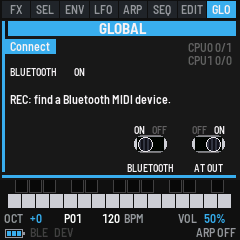
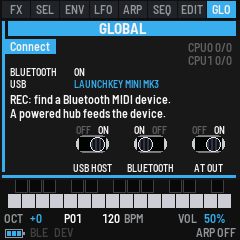
USB host: GLO CONNECT's USB HOST (K2) makes the port a MIDI host for a keyboard or synth
fm1.toml usb_host = true and APP_USB_HOST_NAME. The setting takes spare4's byte and is cleared at every start, so the
computer always finds the FM-1 after a restart. The host's news is spoken (USB HOST LOOKING/OFF, USB DEVICE and its
name, NO MIDI, LOW POWER, LOST); CONNECT shows the device by name. A lost session (plat_usb_lost) lets go of the
bass's held notes, the piano's notes and pedal, the bend, mod wheel and pressure. tests/usbhost.txt; manual section.

diff --git a/app.c b/app.c
@@ -45,7 +45,8 @@ typedef struct {
     uint8_t bvol_off;                    /* the bass's own volume (the MASTER page's Volume, K1), under full: 127 - it
                                           * (stored so: older records' spare 0, full) */
     uint8_t rvol_off;                    /* the RMI's own volume, as bvol_off (its faceplate's fader) */
-    uint8_t spare4[1];
+    uint8_t usb_host;                    /* USB HOST (GLO CONNECT): the port a MIDI host; never kept on (off at every start:
+                                          * set_load), so the computer always finds it after a power-off (was spare, 0) */
     uint8_t rmi_tabs;                    /* the RMI's tone tablets down, a bit each, RT_* (PIANO PANEL: SEL the
                                           * tablet, PRESET it on or off; older records: settings_defaults', PIANO) */
     uint8_t rmi_organ, rmi_accent;       /* its ORGAN MODE and ACCENTER tablets: 0 up, 1 down */
@@ -1025,10 +1026,27 @@ static void route_follow(void)               /* what the bass plays (its keys, a
 static int32_t bend_in;
 static uint32_t mw_in, at_midi;
 static volatile uint32_t at_keys;
+/* a USB host session ended (its device gone, the mode changed): what its notes held let go, the bass's (the keys'
+ * too: no note keeps its owner), the piano's and its pedal, and the wheels and pressure */
+static void usb_lost(void)
+{
+    uint8_t h[NHELD];
+    uint32_t i, n = eng.nheld;
+    memcpy(h, eng.held, n);                  /* (a copy: with LATCH a note-off keeps it) */
+    for (i = 0; i < n; i++)
+        note_in(h[i], 0);
+    for (i = 0; i < 128u; i++)
+        rmi_play(i, 0);
+    rmi_cc(64, 0);
+    bend_in = 0;
+    mw_in = at_midi = 0;
+}
 static void midi_in(void)                    /* audio interrupt: the keys' notes, and the packets that came in */
 {
     uint32_t pkt, e;
     int port;
+    if (plat_usb_lost())
+        usb_lost();
     while (fifo_get(&keyq, &e))
         if (e & KEYQ_RMI)
             rmi_play(e & 0xFFu, (e >> 8) & 0xFFu);
@@ -1918,6 +1936,7 @@ void app_init(void)
         for (i = (uint32_t)n < SET_V3_SIZE && (uint32_t)n > SET_V2_SIZE ? SET_V2_SIZE : (uint32_t)n; i < sizeof set; i++)
             ((uint8_t *)&set)[i] = ((const uint8_t *)&d)[i];
     set_sane();
+    set.usb_host = 0;                        /* (a device at every start: the computer's) */
     tol_init();
     set_kept = set;
     bank_load();
@@ -2291,7 +2310,8 @@ static const param_t PARAMS[NPAGES][NE] = {
                   [EN_K1] = {"BASS", SF(chan), CH_OFF, CH_ALL, CHAN_NAME},
                   [EN_K2] = {"DRUMS", SF(dchan), CH_OFF, CH_ALL, CHAN_NAME},
                   [EN_K3] = {"PIANO", SF(rmi_chan), CH_OFF, CH_ALL, CHAN_NAME}},
-    [PG_GCONN] = {[EN_K2] = {"BLE", SF(ble_off), 0, 1, ON_OFF}, [EN_K3] = {"AT OUT", SF(at_out), 0, 1, OFF_ON}},   /* (K1: the USB host) */
+    [PG_GCONN] = {[EN_K1] = {"USB HOST", SF(usb_host), 0, 1, OFF_ON}, [EN_K2] = {"BLE", SF(ble_off), 0, 1, ON_OFF},
+                  [EN_K3] = {"AT OUT", SF(at_out), 0, 1, OFF_ON}},
     /* the global settings by what they are about: the clock (the tempo on the display), the sound coming out, how the
      * controls answer; the settings on K3 and K4 (ENC_MAP) */
     [PG_GCLK] = {[EN_K3] = {"SEND CLK", SF(clk_out), 0, 1, OFF_ON}, [EN_K4] = {"SYNC", SF(clock), 0, NCLK - 1, CLK_NAME}},   /* (K1, the tempo: the patch's, knob_param) */
@@ -2400,7 +2420,7 @@ static const char *const TITLE[NPAGES][NE] = {
 
     [PG_GMIDI] = {[EN_SELECT] = "BASS CC CHANNEL", [EN_ALGO] = "DRUMS CC CHANNEL", [EN_PRESET] = "PIANO CC CHANNEL",
                   [EN_K1] = "BASS CHANNEL", [EN_K2] = "DRUMS CHANNEL", [EN_K3] = "PIANO CHANNEL"},
-    [PG_GCONN] = {[EN_K2] = "BLUETOOTH MIDI", [EN_K3] = "AFTER TOUCH OUT"},
+    [PG_GCONN] = {[EN_K1] = "USB MIDI HOST", [EN_K2] = "BLUETOOTH MIDI", [EN_K3] = "AFTER TOUCH OUT"},
     [PG_GCLK] = {[EN_K3] = "SEND MIDI CLOCK", [EN_K4] = "CLOCK SYNC"},
     [PG_GCTL] = {[EN_K2] = "KNOB RESPONSE", [EN_K3] = "LOCAL CONTROL", [EN_K4] = "NOTE ROUTE"},
     [PG_GDISP] = {[EN_PRESET] = "KNOB ZOOM", [EN_K1] = "HINTS", [EN_K2] = "POP-UP TIME"},
@@ -3195,6 +3215,8 @@ static int knob_turn(uint32_t k, int32_t e)
         seq_changed();
     if (ui.page == PG_GCONN && k == EN_K2)   /* Bluetooth: at once */
         plat_ble_enable(!set.ble_off);
+    if (ui.page == PG_GCONN && k == EN_K1)   /* the USB host: at once (the computer gone meanwhile) */
+        plat_usb_host(set.usb_host);
     return 1;
 }
 static const char *knob_name(uint32_t k)
@@ -3924,7 +3946,7 @@ static const char *const HINT[NPAGES][NE] = {
                    "Mod wheel: LFO 2 to cutoff", "Mod wheel to osc 2 pitch"},
     [PG_GMIDI] = {"Bass CC channel", "Drums' CC channel", "Piano's CC channel", "Bass note channel",
                   "Drums' note channel", "Piano's note channel"},
-    [PG_GCONN] = {[EN_K2] = "Bluetooth MIDI", "Pressure out as MIDI"},
+    [PG_GCONN] = {[EN_K1] = "A USB MIDI device, no computer", "Bluetooth MIDI", "Pressure out as MIDI"},
     [PG_GCLK] = {[EN_K1] = "Speed, BPM", [EN_K3] = "Send MIDI clock", "Clock to follow"},
     [PG_GAUD] = {[EN_K1] = "The speaker's sound, or off", "Master tune"},
     [PG_GCTL] = {[EN_K1] = "Touch curve", "Knob speed-up", "Keys play the synth", "Notes piano to bass, or back"},
@@ -6894,15 +6916,23 @@ static void glo_chan_draw(void)
         print_knob(x, GLO_ROW, 14, n, EN_K1 + i, 1, CHAN_NAME[param_get(n, &set)], 0);
     }
 }
-/* GLOBAL CONNECT: what the FM-1 is joined to and what goes out to it: Bluetooth (K2, on K3; REC: a device to join) and
- * AT Out (K3, on K4), with how each stands */
+/* GLOBAL CONNECT: what the FM-1 is joined to and what goes out to it: the USB host (K1, on K2: a USB MIDI device on the
+ * port instead of a computer), Bluetooth (K2, on K3; REC: a device to join) and AT Out (K3, on K4), with how each
+ * stands */
 static void glo_conn_draw(void)
 {
+    const int uh = plat_usb_host_state();
+    const char *nm = plat_usb_host_name();
     glo_frame("Connect");
+    info(10, 64, 58, "USB", uh == USBH_CONNECTED ? (*nm ? nm : "Device") : uh == USBH_LOOKING ? "Looking" : "Computer",
+         uh == USBH_CONNECTED ? P_CYAN : P_SILK);
+    if (set.usb_host)
+        cv_text(10, 86, &FONT_XS, "A powered hub feeds the device.", P_SILK);
     info(10, 64, 46, "Bluetooth", set.ble_off ? "Off" : plat_ble_connected() ? "Connected" : "On",
          !set.ble_off && plat_ble_connected() ? P_CYAN : P_SILK);
     if (FM1B_BLE_CENTRAL && !set.ble_off)
         cv_text(10, 72, &FONT_XS, "REC: find a Bluetooth MIDI device.", P_SILK);
+    print_switch(92, GLO_ROW, EN_K1, "Off", "On", "USB Host");
     print_switch(150, GLO_ROW, EN_K2, "On", "Off", "Bluetooth");
     print_switch(208, GLO_ROW, EN_K3, "Off", "On", "AT Out");
 }
@@ -9279,6 +9309,16 @@ void app_frame(void)
         lit_until = 0;
         ui.redraw = 1;
     }
+    if (FM1B_USB_HOST) {                     /* the USB host's news, said (one at a time: the latest) */
+        static const char *const UH_WORD[] = {"", "LOOKING", "OFF", "", "NO MIDI", "LOW POWER", "LOST"};
+        int m = plat_usb_host_msg();
+        if (m == USBH_MSG_MIDI)
+            app_say("USB DEVICE", *plat_usb_host_name() ? plat_usb_host_name() : "CONNECTED");
+        else if (m > USBH_MSG_NONE && m < (int)(sizeof UH_WORD / sizeof *UH_WORD))
+            app_say(m == USBH_MSG_ON || m == USBH_MSG_OFF ? "USB HOST" : "USB DEVICE", UH_WORD[m]);
+        if (m != USBH_MSG_NONE)
+            ui.redraw = 1;
+    }
     if (FM1B_BLE_CENTRAL) {                  /* looking: a device found is named at once (REC connects to it) */
         static int found;
         int n = ui.looking ? btdev_count() : 0, ev;
@@ -9717,6 +9757,8 @@ int app_expect(const char *what, int *got)
         *got = set.knobs;
     else if (!strcmp(what, "ble_off"))
         *got = set.ble_off;
+    else if (!strcmp(what, "usb_host"))
+        *got = set.usb_host;
     else if (!strcmp(what, "afx"))
         *got = afx_on;
     else if (!strcmp(what, "ext_bpm"))       /* MIDI clock's tempo as GLO CLOCK shows it (0: not measured) */

diff --git a/app.h b/app.h
@@ -17,6 +17,7 @@ void app_boot(void);
 #define APP_BLOCK 256u                   /* frames per audio block: 5.8 ms at 44.1 kHz */
 #define APP_TOUCH                        /* velocity and pressure from the keys (lib/touch.h) */
 #define APP_BTDEV                        /* Bluetooth MIDI devices (lib/btdev.h) */
+#define APP_USB_HOST_NAME                /* the USB host's device by its name (GLO CONNECT) */
 #define APP_BLE_AT_BOOT (!bs2_ble_off())   /* Bluetooth at power-on: as the player left it (GLO MIDI) */
 int bs2_ble_off(void);
 

diff --git a/docs/MANUAL.md b/docs/MANUAL.md
@@ -1119,7 +1119,7 @@ from something else. A write to memory (SAVE, a patch change, and the sequence a
 up the sound for a moment. In silence nothing is heard and it isn't counted; while something is sounding, it counts.
 
 ![GLO CHANNELS: Bass, Drums and Piano columns, each a CC channel knob over a note channel knob](img/screen-glo-channels.png "GLO: CHANNELS")
-![GLO CONNECT: how Bluetooth stands, then the Bluetooth and AT Out switches](img/screen-glo-connect.png "GLO, again: CONNECT")
+![GLO CONNECT: how Bluetooth and USB stand (a keyboard connected), then the USB Host, Bluetooth and AT Out switches](img/screen-glo-connect.png "GLO, again: CONNECT")
 ![GLO CLOCK: the tempo 120 on the display and what the clock is doing, then the Tempo knob, the Send Clk switch and the Sync knob](img/screen-glo-clock.png "GLO, again: CLOCK")
 ![GLO KEYS: what each does, then the Velocity and Knobs knobs, the Local switch and the Route knob](img/screen-glo-keys.png "GLO, again: KEYS")
 ![GLO AUDIO: what the speaker's setting reaches, then the Speaker switch and the Tune knob](img/screen-glo-audio.png "GLO, again: AUDIO")
@@ -1239,6 +1239,17 @@ To connect to a Bluetooth MIDI device, such as a keyboard or a controller, put t
 advertising mode, then press GLO twice for GLOBAL CONNECT and press REC: the screen says BLE SCANNING. Turn ALGO to
 pick the device by its name, and press REC again to connect. DEV at the bottom lights while it's connected, and the
 bottom line shows the last message it sent. Press REC once more (on GLOBAL CONNECT) to disconnect.
+
+### A USB MIDI keyboard (USB host)
+
+The FM-1's USB port can play host to a USB MIDI keyboard, controller or synth instead of a computer. Press GLO twice for
+GLOBAL CONNECT and turn K2 (USB HOST) to ON: the screen says USB HOST LOOKING. Plug the device in, through a powered USB
+hub or a powered OTG adapter (the FM-1 gives the port no power), and the screen names it (USB DEVICE and its name);
+GLOBAL CONNECT shows it beside USB. Its notes, wheels and CCs come in as a computer's would, on the channels of GLOBAL
+CHANNELS, and the FM-1's keys and sequences go out to it. Unplugged, any note it was holding stops (USB DEVICE LOST).
+
+While USB HOST is on there is no computer: no USB audio, no MIDI to a computer, no backup and no updates. Turn it OFF
+to give the port back to the computer. It is always OFF at power-on, so the computer finds the FM-1 after any restart.
 
 ### USB audio
 

diff --git a/docs/SIZE_LOG.md b/docs/SIZE_LOG.md
@@ -210,3 +210,4 @@ What each change costs on the FM-1, from the device build (`tools/build.py bs2`)
 | 2026-11-09 | 7f85f02+ | motion: arp octaves | 537,772 | +16 | 43,792 | 83,140 | +0 | 15,164 | 262,616 |
 | 2026-11-09 | 1e0d757+ | USB audio: 6 channels (master, bass, drums, piano, echo) | 538,604 | +832 | 42,960 | 87,620 | +4,480 | 10,684 | 263,640 |
 | 2026-11-09 | 085206a+ | GLO regrouped: CHANNELS (all six), CONNECT, KEYS (Local, Route); GLOBAL DRUMS and PIANO gone | 537,692 | -912 | 43,872 | 87,620 | +0 | 10,684 | 263,640 |
+| 2026-11-09 | 85c7727+ | USB host: GLO CONNECT's USB HOST (K2), the device's name, its notes let go when lost | 541,148 | +3,456 | 40,416 | 88,084 | +464 | 10,220 | 263,640 |
